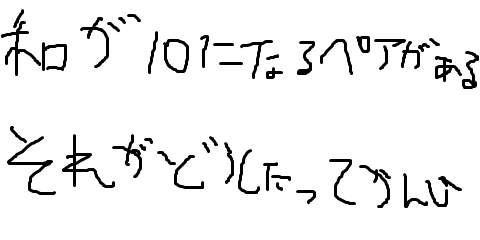
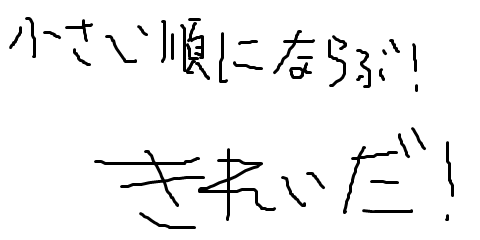
update result

diff --git a/main.js b/main.js
@@ -84,7 +84,7 @@ var resultData =
         isSum10: 3,
         is3Match: 4,
         isZoro: 5,
-        has10Pair: 6,
+        isSorted: 6,
         isSum20: 7,
         is1101: 8,
         noData: 9
@@ -119,8 +119,8 @@ function resultCheck()
         return resultData.isSum10;
 
     //和が10のペアを持つか
-    if (hasPair())
-        return resultData.has10Pair;
+    if ((value[0]<=value[1])&&(value[1]<=value[2])&&(value[2]<=value[3]))
+        return resultData.isSorted;
 
     //素数かどうか
     if (primeCheck(n))
